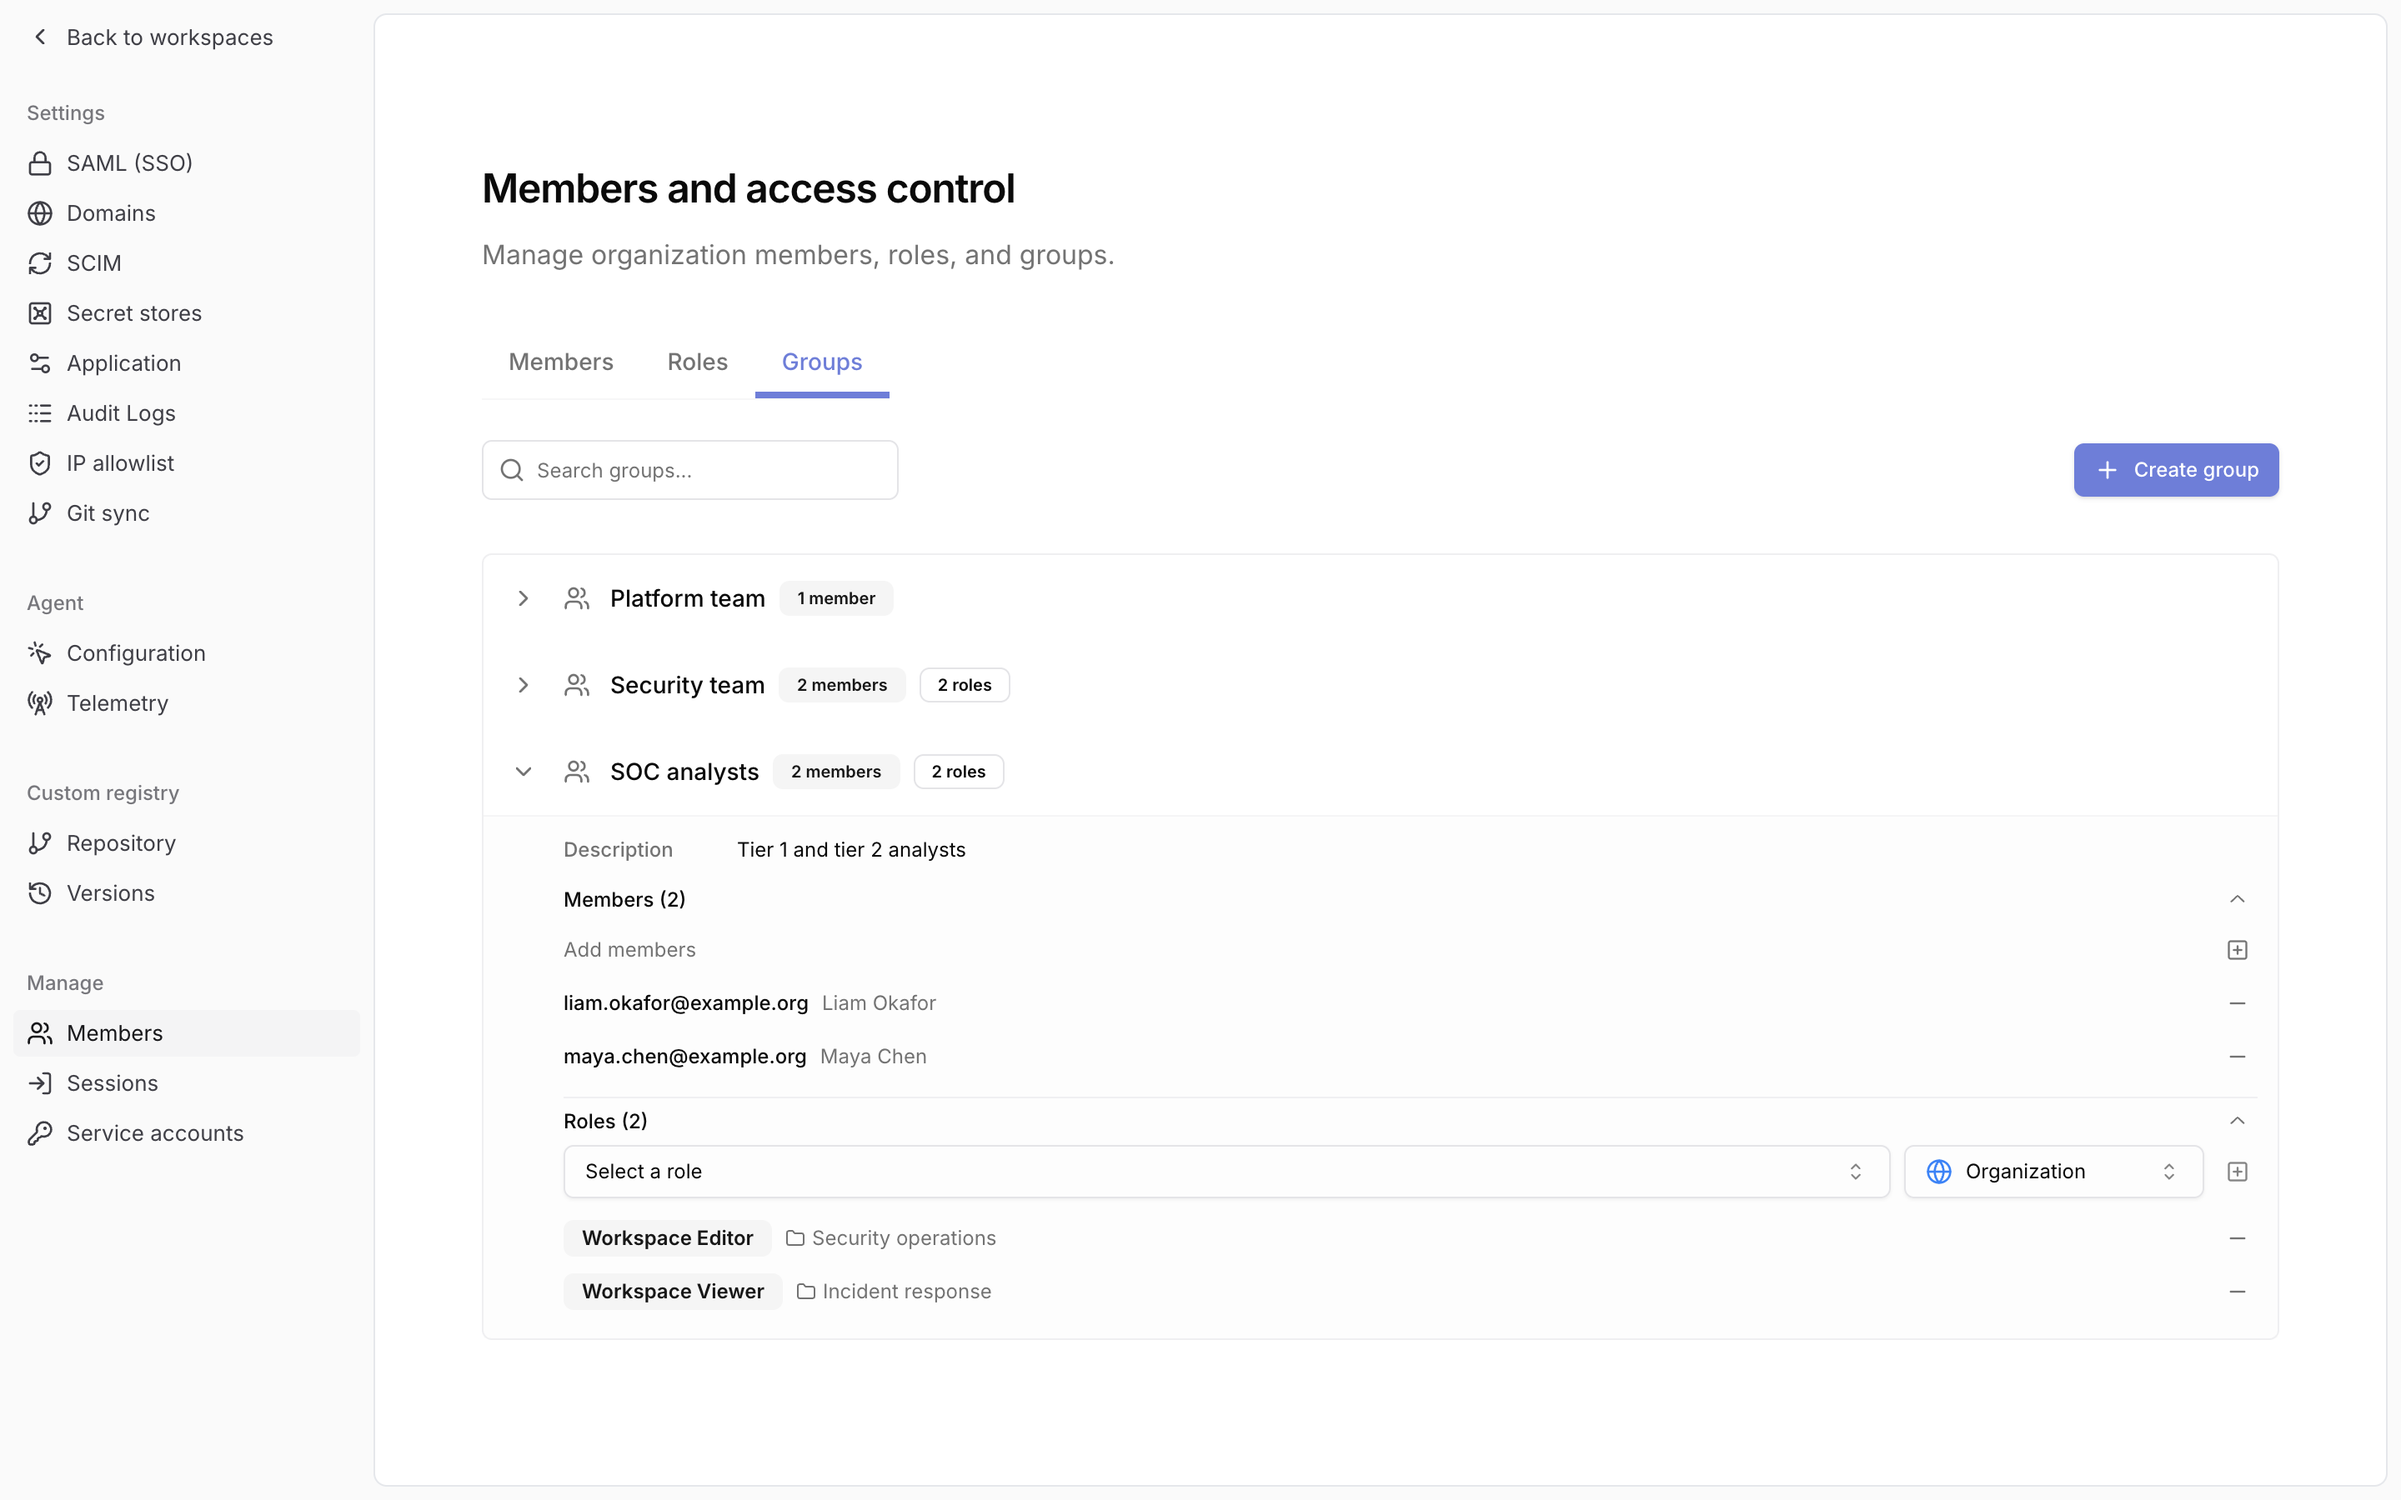
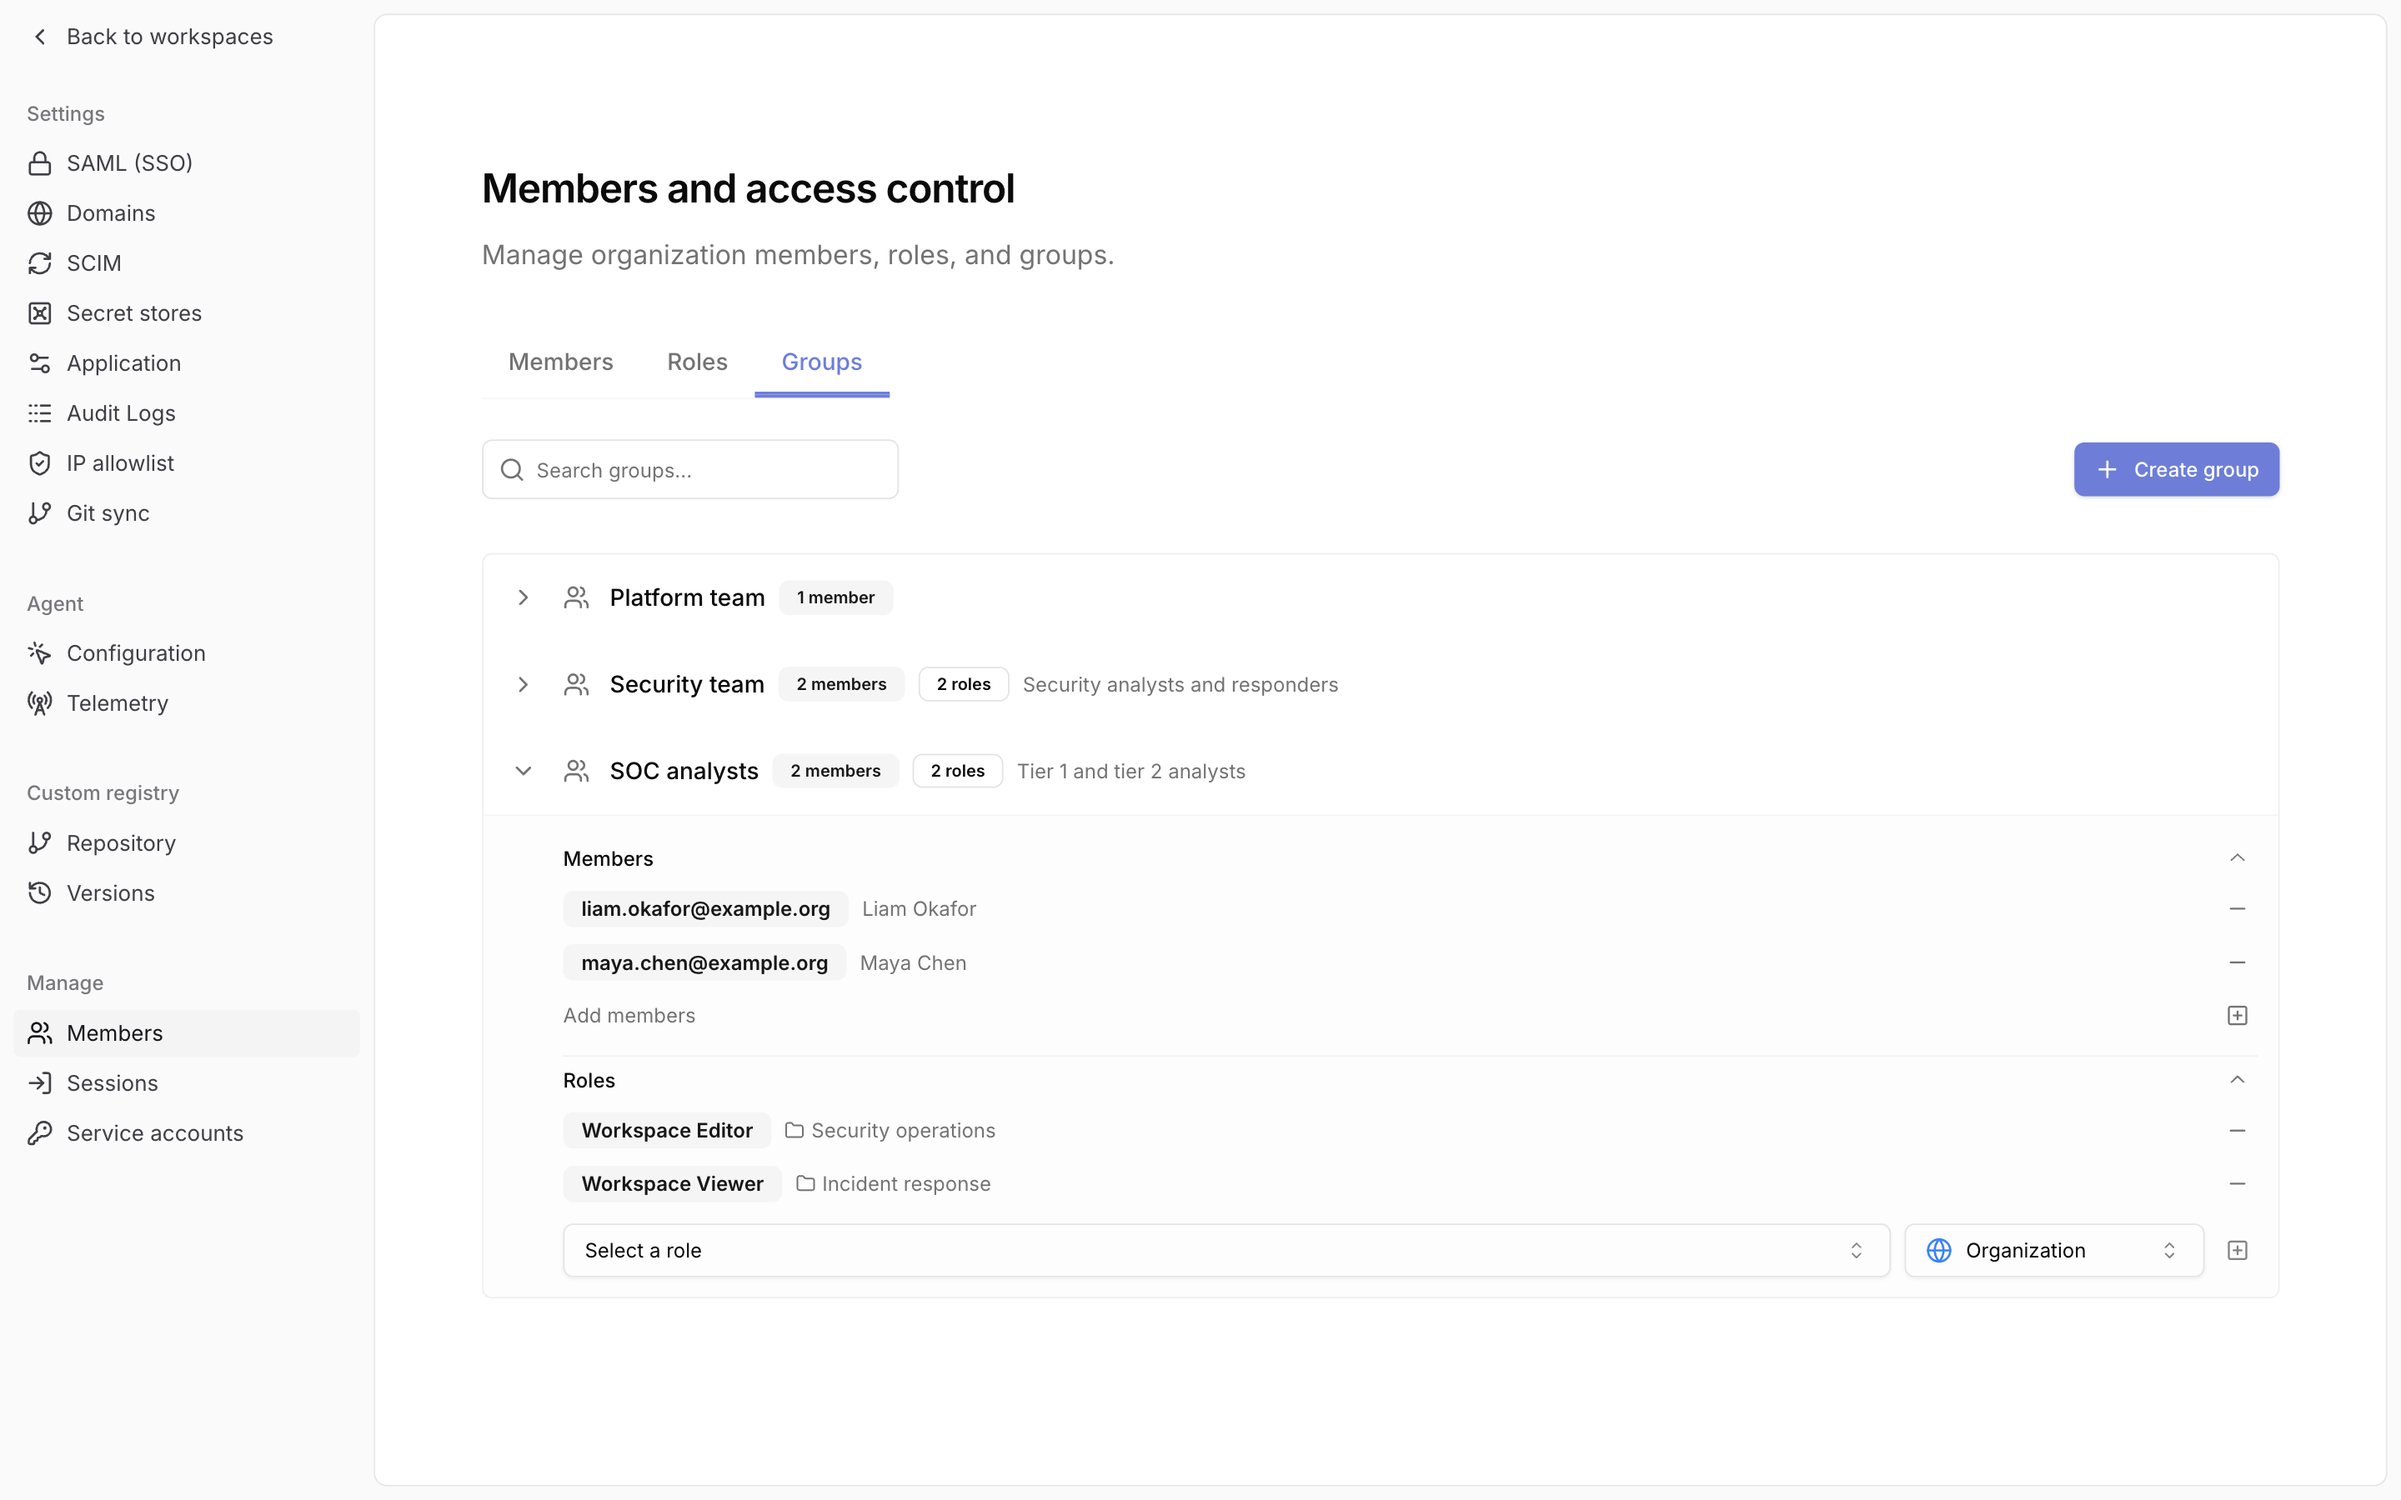
fix(ui): match preset badge radius and refresh RBAC docs screenshots

diff --git a/frontend/src/components/organization/rbac-list-item.tsx b/frontend/src/components/organization/rbac-list-item.tsx
@@ -231,7 +231,7 @@ export function RbacBadge({
   return (
     <span
       className={cn(
-        "inline-flex items-center rounded-full px-2 py-0.5 text-[10px] font-medium",
+        "inline-flex items-center rounded-md px-2 py-0.5 text-[10px] font-medium",
         variant === "preset" && "bg-muted text-muted-foreground",
         variant === "custom" && "bg-primary/10 text-primary",
         variant === "default" && "bg-secondary text-secondary-foreground",
